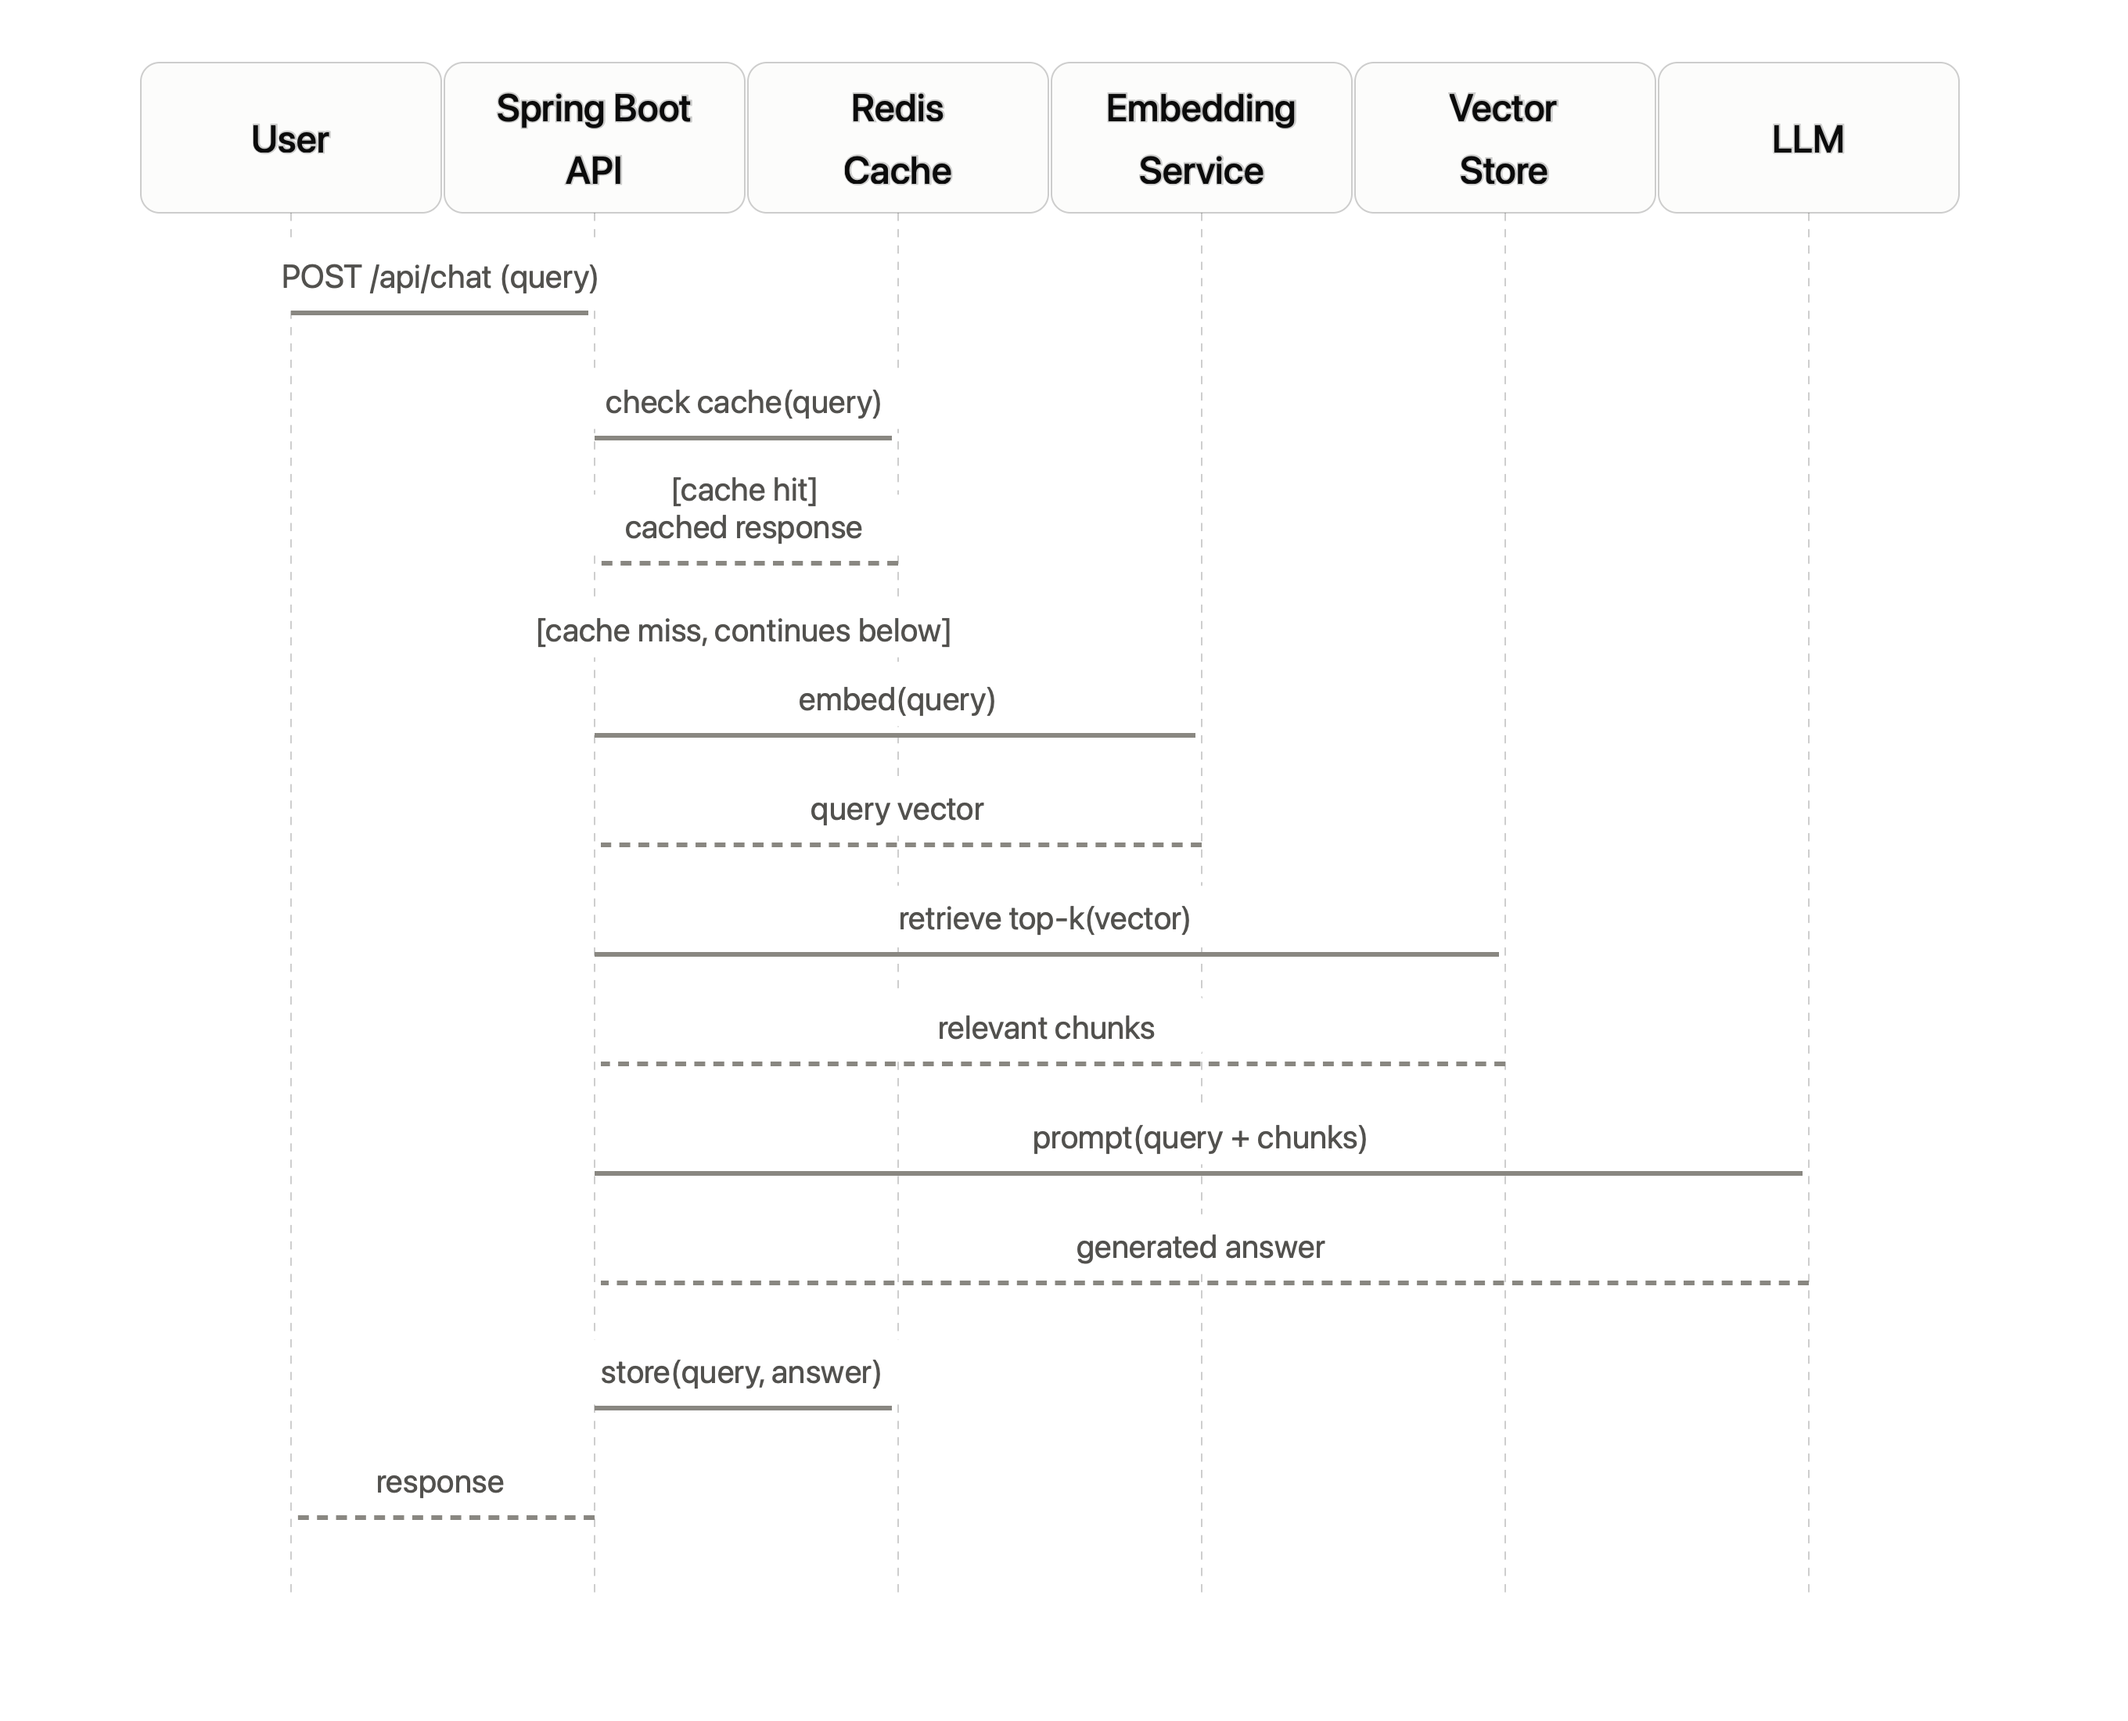
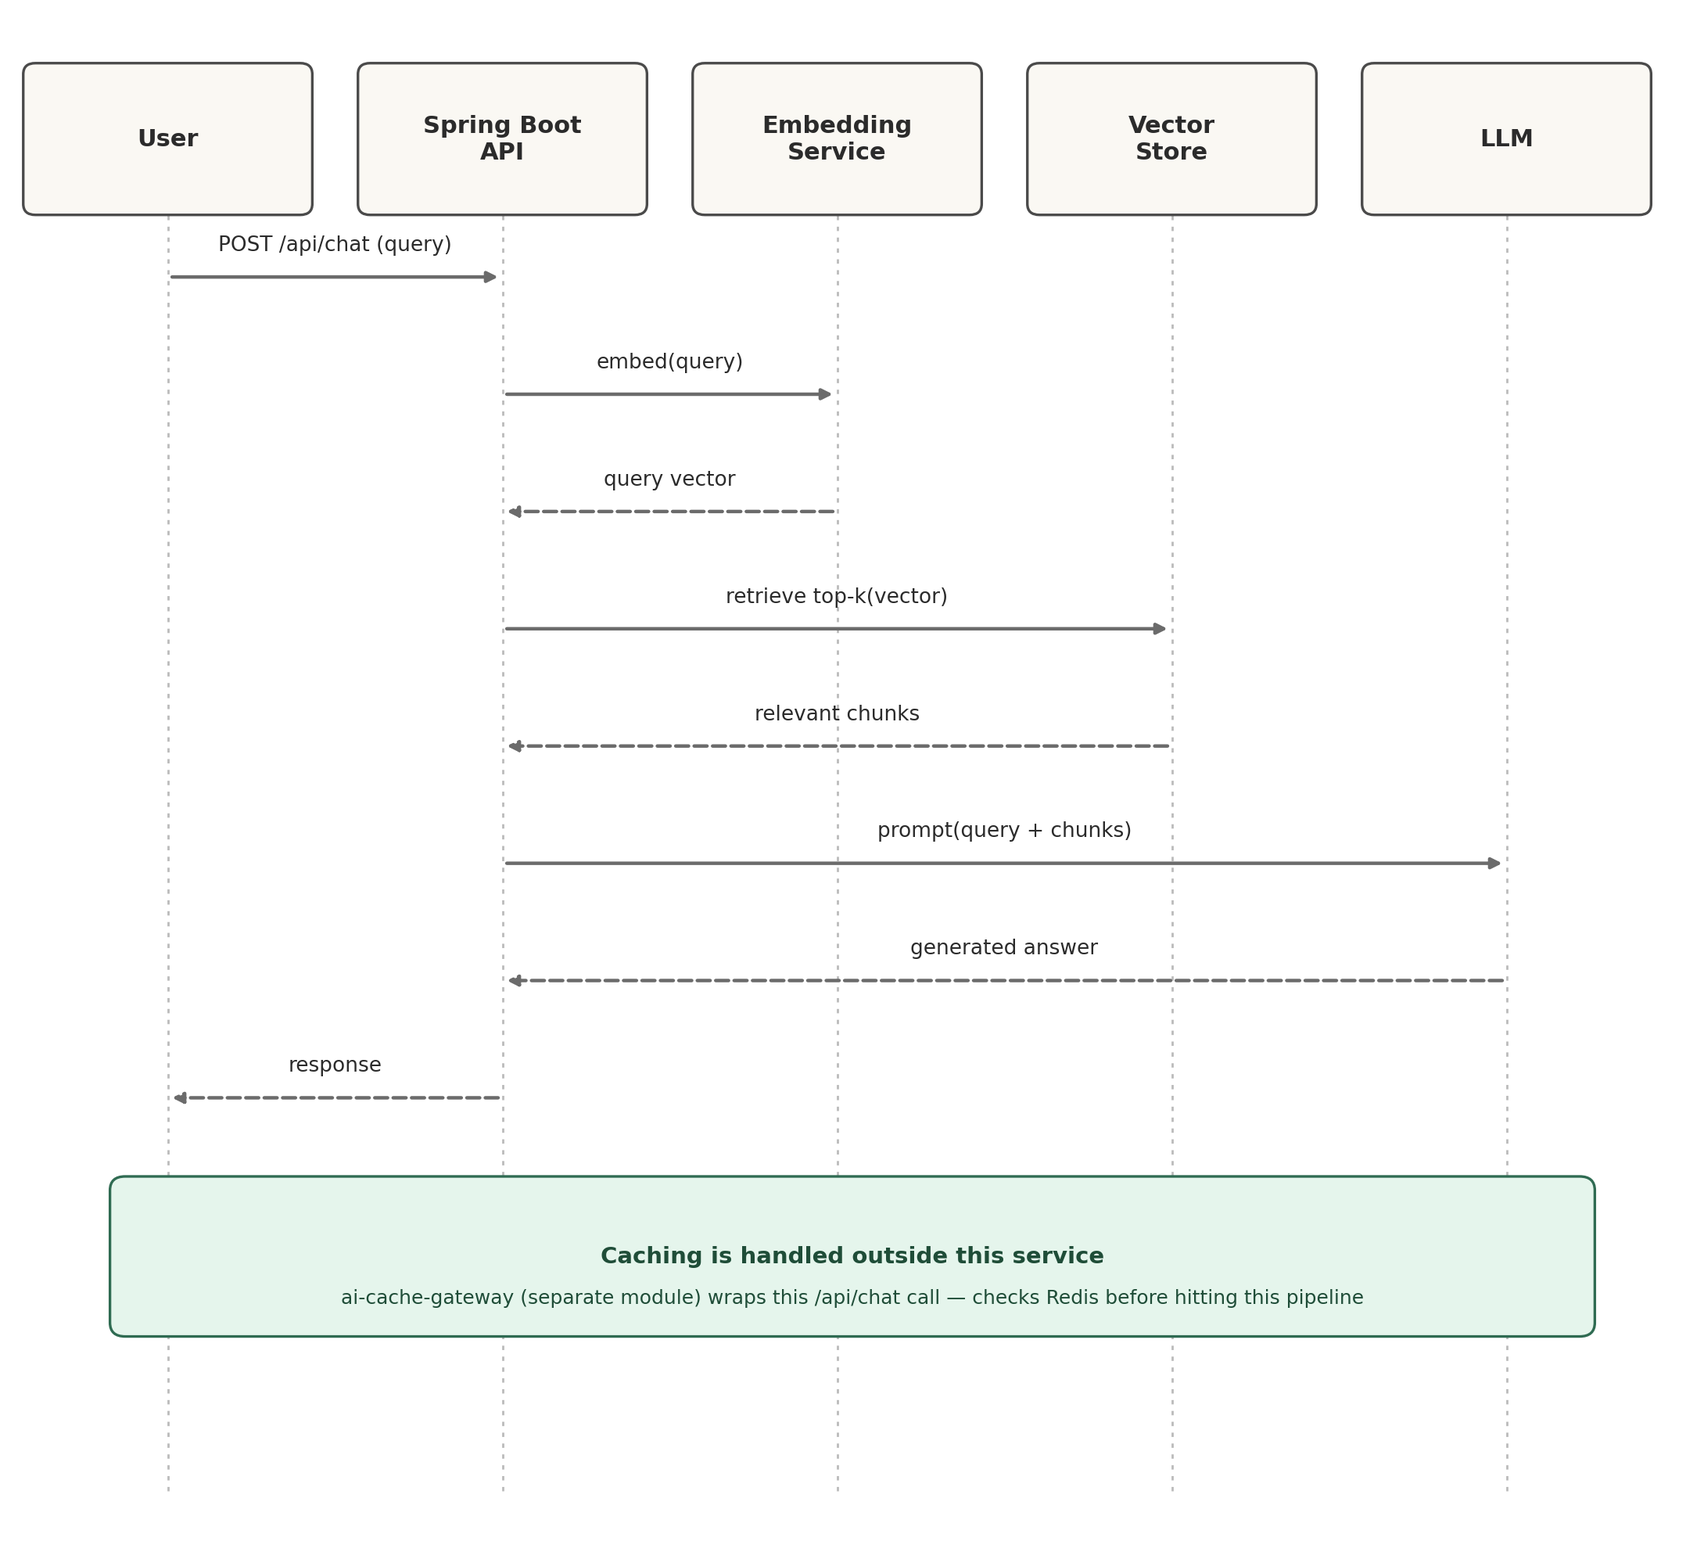
Fix TokenTextSplitter builder to set all params and avoid single-chunk bug
Add RetrievalService wrapping VectorStore similarity search

Add RetrievalController exposing GET /api/retrieve endpoint

Add RagService with system prompt for context-restricted answers

Add RagController exposing GET /api/ask endpoint

Add TicketStatusTools for mock ticket status lookup

Document known limitation: local model cannot combine RAG context rules with tool-calling reliably

Add unit tests for RetrievalService

Add unit tests for RagService

Update README roadmap to reflect completed Phase 1 milestones

diff --git a/staa/src/test/java/com/llm/staa/service/RetrievalServiceTest.java b/staa/src/test/java/com/llm/staa/service/RetrievalServiceTest.java
@@ -1,0 +1,80 @@
+package com.llm.staa.service;
+
+import org.junit.jupiter.api.BeforeEach;
+import org.junit.jupiter.api.Test;
+import org.junit.jupiter.api.extension.ExtendWith;
+import org.mockito.ArgumentCaptor;
+import org.mockito.InjectMocks;
+import org.mockito.Mock;
+import org.mockito.junit.jupiter.MockitoExtension;
+import org.springframework.ai.document.Document;
+import org.springframework.ai.vectorstore.SearchRequest;
+import org.springframework.ai.vectorstore.VectorStore;
+
+import java.util.Collections;
+import java.util.List;
+
+import static org.assertj.core.api.Assertions.assertThat;
+import static org.mockito.Mockito.*;
+
+@ExtendWith(MockitoExtension.class)
+class RetrievalServiceTest {
+
+    @Mock
+    private VectorStore vectorStore;
+
+    @InjectMocks
+    private RetrievalService retrievalService;
+
+    private static final String TEST_QUERY = "how do I reset my password";
+
+    @BeforeEach
+    void setUp() {
+        // common setup if needed later
+    }
+
+    @Test
+    void retrieveSimilar_shouldReturnDocuments_whenVectorStoreHasMatches() {
+        // Arrange
+        Document mockDoc = new Document("To reset your password, go to Forgot Password...");
+        List<Document> expectedDocs = List.of(mockDoc);
+        when(vectorStore.similaritySearch(any(SearchRequest.class))).thenReturn(expectedDocs);
+
+        // Act
+        List<Document> result = retrievalService.retrieveSimilar(TEST_QUERY);
+
+        // Assert
+        assertThat(result).hasSize(1);
+        assertThat(result.get(0).getText()).contains("reset your password");
+    }
+
+    @Test
+    void retrieveSimilar_shouldReturnEmptyList_whenNoMatchesFound() {
+        // Arrange
+        when(vectorStore.similaritySearch(any(SearchRequest.class))).thenReturn(Collections.emptyList());
+
+        // Act
+        List<Document> result = retrievalService.retrieveSimilar("completely unrelated query about weather");
+
+        // Assert
+        assertThat(result).isEmpty();
+    }
+
+    @Test
+    void retrieveSimilar_shouldBuildSearchRequestWithCorrectTopKAndThreshold() {
+        // Arrange
+        when(vectorStore.similaritySearch(any(SearchRequest.class))).thenReturn(Collections.emptyList());
+        ArgumentCaptor<SearchRequest> captor = ArgumentCaptor.forClass(SearchRequest.class);
+
+        // Act
+        retrievalService.retrieveSimilar(TEST_QUERY);
+
+        // Assert
+        verify(vectorStore).similaritySearch(captor.capture());
+        SearchRequest capturedRequest = captor.getValue();
+
+        assertThat(capturedRequest.getTopK()).isEqualTo(4);
+        assertThat(capturedRequest.getSimilarityThreshold()).isEqualTo(0.5);
+        assertThat(capturedRequest.getQuery()).isEqualTo(TEST_QUERY);
+    }
+}

diff --git a/staa/src/test/java/com/llm/staa/service/RagServiceTest.java b/staa/src/test/java/com/llm/staa/service/RagServiceTest.java
@@ -1,0 +1,61 @@
+package com.llm.staa.service;
+
+import org.junit.jupiter.api.Test;
+import org.junit.jupiter.api.extension.ExtendWith;
+import org.mockito.ArgumentCaptor;
+import org.mockito.Mock;
+import org.mockito.junit.jupiter.MockitoExtension;
+import org.springframework.ai.chat.client.ChatClient;
+import org.springframework.ai.document.Document;
+
+import java.util.Collections;
+import java.util.List;
+
+import static org.assertj.core.api.Assertions.assertThat;
+import static org.mockito.Mockito.*;
+
+@ExtendWith(MockitoExtension.class)
+class RagServiceTest {
+
+    @Mock
+    private ChatClient.Builder chatClientBuilder;
+
+    @Mock
+    private ChatClient chatClient;
+
+    @Mock
+    private RetrievalService retrievalService;
+
+    @Mock
+    private ChatClient.ChatClientRequestSpec requestSpec;
+
+    @Mock
+    private ChatClient.CallResponseSpec callResponseSpec;
+
+    private RagService ragService;
+
+    private static final String TEST_QUERY = "how do I reset my password";
+
+    @Test
+    void answer_shouldIncludeRetrievedContextInPrompt() {
+        // Arrange
+        when(chatClientBuilder.build()).thenReturn(chatClient);
+        ragService = new RagService(chatClientBuilder, retrievalService);
+
+        Document doc = new Document("To reset your password, go to Forgot Password page...");
+        when(retrievalService.retrieveSimilar(TEST_QUERY)).thenReturn(List.of(doc));
+
+        when(chatClient.prompt()).thenReturn(requestSpec);
+        when(requestSpec.system(anyString())).thenReturn(requestSpec);
+        when(requestSpec.user(anyString())).thenReturn(requestSpec);
+        when(requestSpec.call()).thenReturn(callResponseSpec);
+        when(callResponseSpec.content()).thenReturn("You can reset your password by...");
+
+        // Act
+        String result = ragService.answer(TEST_QUERY);
+
+        // Assert
+        assertThat(result).isEqualTo("You can reset your password by...");
+        verify(requestSpec).user(TEST_QUERY);
+    }
+}

diff --git a/staa/src/main/java/com/llm/staa/service/RagService.java b/staa/src/main/java/com/llm/staa/service/RagService.java
@@ -1,0 +1,53 @@
+package com.llm.staa.service;
+
+import com.llm.staa.tools.TicketStatusTools;
+import lombok.RequiredArgsConstructor;
+import lombok.extern.slf4j.Slf4j;
+import org.springframework.ai.chat.client.ChatClient;
+import org.springframework.ai.document.Document;
+import org.springframework.stereotype.Service;
+
+import java.util.List;
+import java.util.stream.Collectors;
+
+@Service
+@Slf4j
+public class RagService {
+    private final ChatClient chatClient;
+    private final RetrievalService retrievalService;
+
+    public RagService(ChatClient.Builder chatClientBuilder, RetrievalService retrievalService) {
+        this.chatClient = chatClientBuilder.build();
+        this.retrievalService = retrievalService;
+    }
+
+    private static final String SYSTEM_TEMPLATE = """
+        You have access to tools. If the user's question can be answered by calling a tool (such as checking ticket status), use the tool directly and return its result.
+        
+        Otherwise, for general questions, please answer using only the context provided below. Do not give partial answer.
+        If no answer found provide fallback message.
+        Fallback message: "Sorry, unable to find feasible answer. Contact a Human Agent."
+
+        Context:
+        %s
+        """;
+
+    public String answer(String userQuery) {
+        List<Document> retrievedDocs = retrievalService.retrieveSimilar(userQuery);
+
+        String context = retrievedDocs.stream()
+                .map(Document::getText)
+                .collect(Collectors.joining("\n\n"));
+
+        String systemPrompt = SYSTEM_TEMPLATE.formatted(context);
+
+        log.info("Sending prompt with {} retrieved chunks", retrievedDocs.size());
+        // in small model tools and systemContext like llama 3.2
+        return chatClient.prompt()
+                .system(systemPrompt)
+                .user(userQuery)
+                .call()
+                .content();
+    }
+
+}

diff --git a/staa/src/main/java/com/llm/staa/config/DocumentIngestionRunner.java b/staa/src/main/java/com/llm/staa/config/DocumentIngestionRunner.java
@@ -37,7 +37,12 @@ public class DocumentIngestionRunner implements CommandLineRunner {
         Resource[] resources = resolver.getResources("classpath:embeddble_docs/*.txt");
 
         List<Document> allChunks = new ArrayList<>();
-        TextSplitter splitter = TokenTextSplitter.builder().build();
+        TextSplitter splitter = TokenTextSplitter.builder().
+                                         withChunkSize(150)
+                                        .withMinChunkSizeChars(50)
+                                        .withMinChunkLengthToEmbed(5)
+                                        .withMaxNumChunks(10000)
+                                        .build();
 
         for (Resource resource : resources) {
             TextReader textReader = new TextReader(resource);

diff --git a/staa/src/main/java/com/llm/staa/chat/ChatController.java b/staa/src/main/java/com/llm/staa/chat/ChatController.java
@@ -1,8 +1,7 @@
 package com.llm.staa.chat;
 
-import com.llm.staa.tools.DateTimeTools;
+import com.llm.staa.tools.TicketStatusTools;
 import org.springframework.ai.chat.client.ChatClient;
-import org.springframework.beans.factory.annotation.Autowired;
 import org.springframework.web.bind.annotation.GetMapping;
 import org.springframework.web.bind.annotation.RequestMapping;
 import org.springframework.web.bind.annotation.RequestParam;
@@ -21,7 +20,7 @@ public class ChatController {
     public String chat(@RequestParam String curiosity) {
         return chatClient.prompt()
                 .user(curiosity)
-                .tools(new DateTimeTools())
+                .tools(new TicketStatusTools())
                 .call()
                 .content();
     }

diff --git a/staa/src/main/java/com/llm/staa/tools/TicketStatusTools.java b/staa/src/main/java/com/llm/staa/tools/TicketStatusTools.java
@@ -1,0 +1,23 @@
+package com.llm.staa.tools;
+
+import org.springframework.ai.tool.annotation.Tool;
+import org.springframework.stereotype.Component;
+
+import java.util.Map;
+
+@Component
+public class TicketStatusTools {
+    private static final Map<String, String> MOCK_TICKETS = Map.of(
+            "1001", "Open",
+            "1002", "In Progress",
+            "1003", "Waiting on Customer",
+            "1004", "Escalated",
+            "1005", "Resolved",
+            "1006", "Closed"
+    );
+
+    @Tool(description = "Get the current status of a support ticket given its ticket ID")
+    public String getTicketStatus(String ticketId) {
+        return MOCK_TICKETS.getOrDefault(ticketId, "No ticket found with ID " + ticketId);
+    }
+}

diff --git a/staa/src/main/java/com/llm/staa/controller/RagController.java b/staa/src/main/java/com/llm/staa/controller/RagController.java
@@ -1,0 +1,22 @@
+package com.llm.staa.controller;
+
+import com.llm.staa.service.RagService;
+import lombok.RequiredArgsConstructor;
+import org.springframework.beans.factory.annotation.Autowired;
+import org.springframework.web.bind.annotation.GetMapping;
+import org.springframework.web.bind.annotation.RequestMapping;
+import org.springframework.web.bind.annotation.RequestParam;
+import org.springframework.web.bind.annotation.RestController;
+
+@RestController
+@RequestMapping("/api")
+@RequiredArgsConstructor
+public class RagController {
+
+    private final RagService ragService;
+
+    @GetMapping("/ask")
+    public String ask(@RequestParam String query) {
+        return ragService.answer(query);
+    }
+}

diff --git a/README.md b/README.md
@@ -1,17 +1,19 @@
-# Support Ticket AI Assistant(STAA)(RAG-based)
+# Support Ticket AI Assistant (STAA) (RAG-based)
 
 RAG-powered support ticket assistant built with Spring Boot — retrieves relevant docs via vector search and generates context-aware answers using LLM integration.
 
 > 🚧 **Work in Progress** — actively being built. Full documentation, architecture diagram, and setup instructions coming soon.
 
-## Planned Tech Stack
+## Scope of This Repo
+
+This repo covers the **core RAG pipeline only** — LLM integration, embeddings, vector retrieval, and prompt construction. Caching, hybrid search, and multi-model routing have been split into separate, independently-deployable modules (see [Related Modules](#related-modules)) that integrate with this service over REST.
+
+## Tech Stack
 
 - **Backend:** Java, Spring Boot, Spring AI
-- **LLM:** Ollama(llama3.2)
+- **LLM:** Ollama (llama3.2)
 - **Embeddings:** sentence-transformers (local)
 - **Vector Store:** PostgreSQL + pgvector
-- **Caching:** Redis
-- **Search:** Elasticsearch (hybrid retrieval)
 - **DevOps:** Docker, Docker Compose
 
 ## Roadmap
@@ -21,10 +23,25 @@ RAG-powered support ticket assistant built with Spring Boot — retrieves releva
 - [x] Document ingestion + retrieval endpoint
 - [ ] Full RAG pipeline (retrieval + prompt construction + generation)
 - [ ] Resilience (rate-limit handling, retries)
-- [ ] Redis caching layer
-- [ ] Elasticsearch hybrid search
+- [ ] Unit test coverage (happy path)
+- [ ] README: architecture diagram + API examples + design trade-offs
 - [ ] Dockerized deployment
+
+## Related Modules
+
+These are separate repos that plug into this service via REST once ready — not part of this repo's scope:
+
+| Module | Purpose | Integration point |
+|---|---|---|
+| `ai-cache-gateway` | Redis-based cache-aside layer for LLM responses | Wraps the LLM call in this service |
+| `ai-observability-logger` | Logs latency, token count, retrieval hit/miss | This service sends async log events |
+| `llm-router` | Routes queries to Ollama/Groq by complexity | Will replace the direct LLM call here |
+| `doc-extract-service` | Structured extraction from PDFs (standalone) | Future: feeds this service's ingestion pipeline |
 
 ## Status
 
 Currently in early development. Star/watch this repo for updates.
+
+## Known Limitations / Future Enhancements
+- Chunk overlap not yet implemented (Spring AI's `TokenTextSplitter` doesn't support it natively) — would improve retrieval accuracy for content near chunk boundaries
+- Local model (llama3.2 via Ollama) does not reliably combine RAG context-restriction instructions with tool-calling in a single prompt — verified isolated tool-calling and RAG work correctly independently, but combining them causes inconsistent behavior (raw JSON output or incorrect fallback). This is a known limitation of smaller local models; larger cloud models (e.g. Groq, GPT-4) typically handle this better. Kept as two separate flows for MVP scope.
